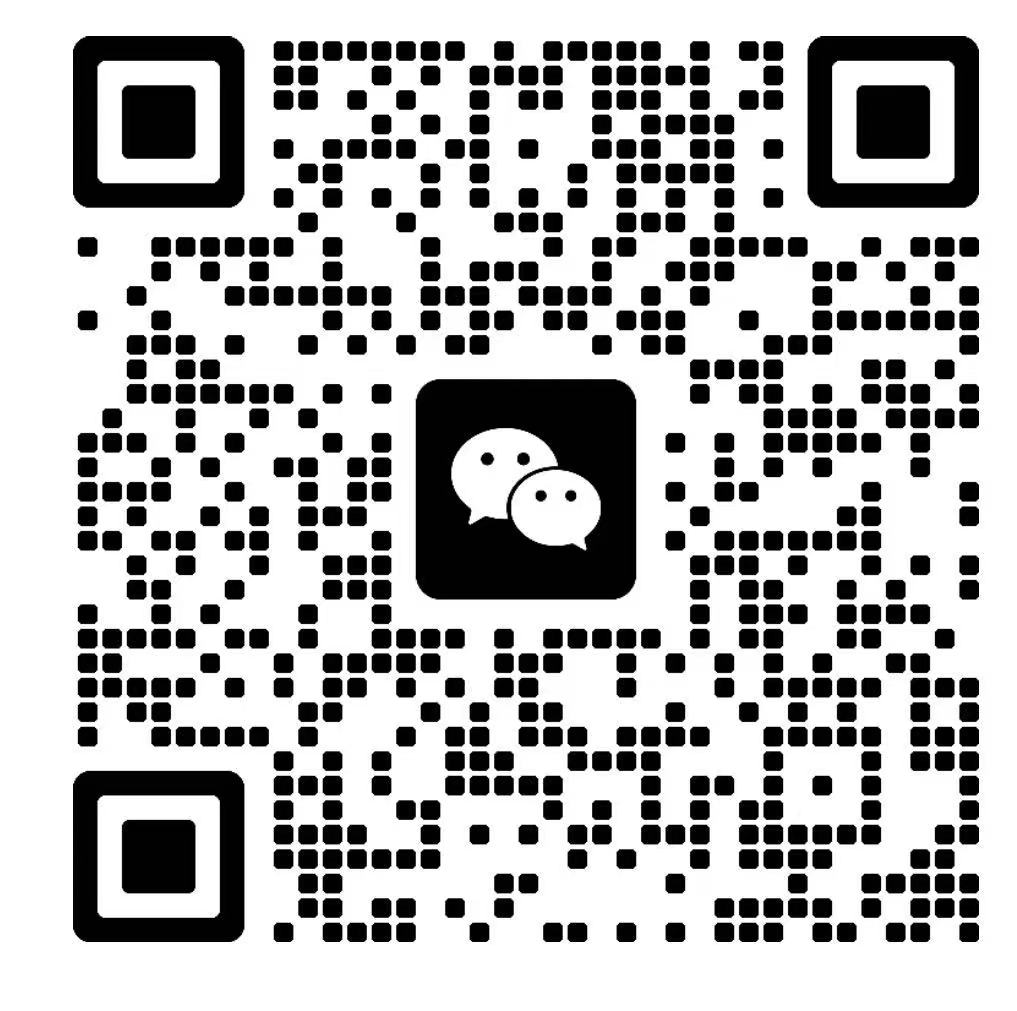
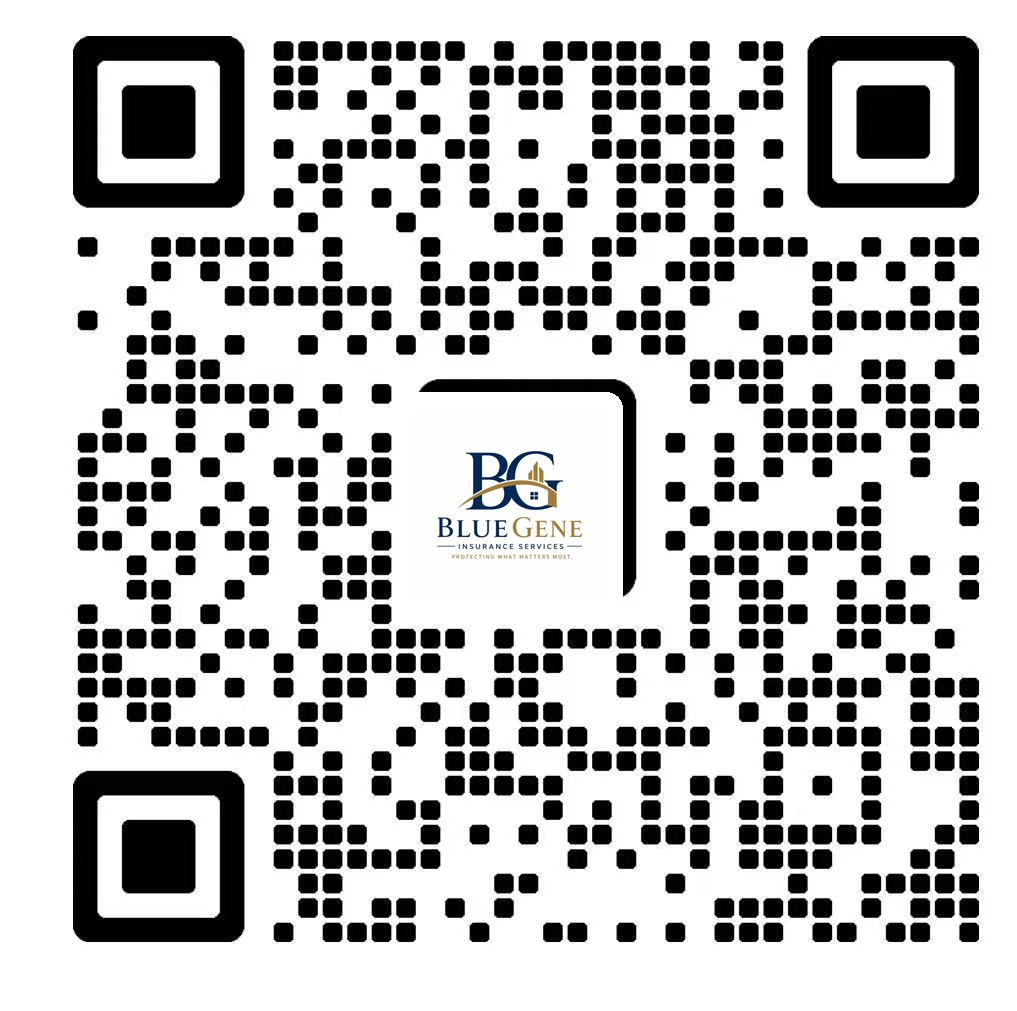
Add files via upload

Changed region(s): [[0.3963, 0.368, 0.6096, 0.6133]]

diff --git a/index.html b/index.html
@@ -12,13 +12,13 @@
   <div class="shell nav">
     <a class="logo" href="#home"><img src="assets/bluegene-logo.png" alt="BlueGene Insurance Services"></a>
     <nav class="menu">
-      <a class="active" href="#home" data-en="Home" data-zh="首页">Home</a>
-      <a href="#about" data-en="About Us" data-zh="关于我们">About Us</a>
-      <a href="#services" data-en="Insurance Solutions" data-zh="保险方案">Insurance Solutions</a>
-      <a href="#resources" data-en="Resources" data-zh="资料">Resources</a>
-      <a href="#contact" data-en="Contact Us" data-zh="联系我们">Contact Us</a>
-      <button class="language" id="lang">中文</button>
-      <a class="quote-top" href="mailto:agent@bluegeneins.com?subject=Quote Request" data-en="Get a Quote" data-zh="获取报价">Get a Quote</a>
+      <a class="active" href="#home" data-en="Home" data-es="Inicio" data-zh="首页">Home</a>
+      <a href="#about" data-en="About Us" data-es="Sobre Nosotros" data-zh="关于我们">About Us</a>
+      <a href="#services" data-en="Insurance Solutions" data-es="Soluciones de Seguros" data-zh="保险方案">Insurance Solutions</a>
+      <a href="#resources" data-en="Resources" data-es="Recursos" data-zh="资料">Resources</a>
+      <a href="#contact" data-en="Contact Us" data-es="Contáctenos" data-zh="联系我们">Contact Us</a>
+      <div class="language-switch" aria-label="Language"><button type="button" data-lang="en" class="lang-choice active">EN</button><button type="button" data-lang="zh">中文</button><button type="button" data-lang="es">ES</button></div>
+      <a class="quote-top" href="mailto:agent@bluegeneins.com?subject=Quote Request" data-en="Get a Quote" data-es="Obtenga una Cotización" data-zh="获取报价">Get a Quote</a>
     </nav>
   </div>
 </header>
@@ -27,15 +27,15 @@
 <section class="hero" id="home">
   <div class="shell hero-inner">
     <div class="hero-copy">
-      <div class="kicker" data-en="PROTECT WHAT MATTERS MOST" data-zh="守护您最重要的一切">PROTECT WHAT MATTERS MOST</div>
-      <h1 data-en="Insurance Solutions You Can Trust" data-zh="值得信赖的保险方案">Insurance Solutions You Can Trust</h1>
-      <p data-en="At BlueGene Insurance Services, we provide personalized insurance solutions to protect your family, your assets, and your future."
+      <div class="kicker" data-en="PROTECT WHAT MATTERS MOST" data-es="PROTEJA LO QUE MÁS IMPORTA" data-zh="守护您最重要的一切">PROTECT WHAT MATTERS MOST</div>
+      <h1 data-en="Insurance Solutions You Can Trust" data-es="Soluciones de Seguros en las que Puede Confiar" data-zh="值得信赖的保险方案">Insurance Solutions You Can Trust</h1>
+      <p data-en="At BlueGene Insurance Services, we provide personalized insurance solutions to protect your family, your assets, and your future." data-es="En BlueGene Insurance Services, ofrecemos soluciones de seguro personalizadas para proteger a su familia, sus bienes y su futuro."
          data-zh="BlueGene Insurance Services 为您提供个性化保险方案，守护您的家庭、资产与未来。">
         At BlueGene Insurance Services, we provide personalized insurance solutions to protect your family, your assets, and your future.
       </p>
       <div class="hero-buttons">
-        <a class="primary" href="mailto:agent@bluegeneins.com?subject=Quote Request" data-en="Get a Free Quote" data-zh="免费获取报价">Get a Free Quote</a>
-        <a class="secondary" href="#services" data-en="Learn More" data-zh="了解更多">Learn More</a>
+        <a class="primary" href="mailto:agent@bluegeneins.com?subject=Quote Request" data-en="Get a Free Quote" data-es="Obtenga una Cotización Gratuita" data-zh="免费获取报价">Get a Free Quote</a>
+        <a class="secondary" href="#services" data-en="Learn More" data-es="Más Información" data-zh="了解更多">Learn More</a>
       </div>
     </div>
     <div class="hero-photo" aria-label="Family"></div>
@@ -45,70 +45,70 @@
 <section class="services" id="services">
   <div class="shell services-grid">
     <div class="service-main">
-      <div class="section-kicker" data-en="OUR SERVICES" data-zh="我们的服务">OUR SERVICES</div>
-      <h2 data-en="Coverage for Life and Business" data-zh="生活与家庭的全面保障">Coverage for Life and Business</h2>
+      <div class="section-kicker" data-en="OUR SERVICES" data-es="NUESTROS SERVICIOS" data-zh="我们的服务">OUR SERVICES</div>
+      <h2 data-en="Coverage for Life and Business" data-es="Cobertura para Cada Etapa de la Vida" data-zh="生活与家庭的全面保障">Coverage for Life and Business</h2>
       <div class="gold-line"></div>
 
       <div class="cards">
         <article class="card">
           <div class="round-icon">🚗</div>
-          <h3 data-en="Auto Insurance" data-zh="汽车保险">Auto Insurance</h3>
-          <p data-en="Coverage options designed to help protect your vehicles and drivers." data-zh="为您的车辆和驾驶人提供合适的保险保障。">Coverage options designed to help protect your vehicles and drivers.</p>
+          <h3 data-en="Auto Insurance" data-es="Seguro de Auto" data-zh="汽车保险">Auto Insurance</h3>
+          <p data-en="Coverage options designed to help protect your vehicles and drivers." data-es="Opciones de cobertura diseñadas para ayudar a proteger sus vehículos y conductores." data-zh="为您的车辆和驾驶人提供合适的保险保障。">Coverage options designed to help protect your vehicles and drivers.</p>
         </article>
 
         <article class="card">
           <div class="round-icon home-icon">◆</div>
-          <h3 data-en="Home Insurance" data-zh="房屋保险">Home Insurance</h3>
-          <p data-en="Protection for your home, personal property, and everyday peace of mind." data-zh="为房屋、个人财产及日常生活提供安心保障。">Protection for your home, personal property, and everyday peace of mind.</p>
+          <h3 data-en="Home Insurance" data-es="Seguro de Hogar" data-zh="房屋保险">Home Insurance</h3>
+          <p data-en="Protection for your home, personal property, and everyday peace of mind." data-es="Protección para su hogar, sus bienes personales y su tranquilidad diaria." data-zh="为房屋、个人财产及日常生活提供安心保障。">Protection for your home, personal property, and everyday peace of mind.</p>
         </article>
 
         <article class="card">
           <div class="round-icon">♥</div>
-          <h3 data-en="Life Insurance" data-zh="人寿保险">Life Insurance</h3>
-          <p data-en="Options that can help support your family's long-term financial security." data-zh="帮助您为家庭建立长期的财务保障。">Options that can help support your family's long-term financial security.</p>
+          <h3 data-en="Life Insurance" data-es="Seguro de Vida" data-zh="人寿保险">Life Insurance</h3>
+          <p data-en="Options that can help support your family's long-term financial security." data-es="Opciones que pueden ayudar a proteger la seguridad financiera a largo plazo de su familia." data-zh="帮助您为家庭建立长期的财务保障。">Options that can help support your family's long-term financial security.</p>
         </article>
 
         <article class="card">
           <div class="round-icon">$</div>
-          <h3 data-en="Annuity" data-zh="年金保险">Annuity</h3>
-          <p data-en="Long-term income and retirement planning solutions for your future." data-zh="为退休生活及长期收入规划提供解决方案。">Long-term income and retirement planning solutions for your future.</p>
+          <h3 data-en="Annuity" data-es="Anualidades" data-zh="年金保险">Annuity</h3>
+          <p data-en="Long-term income and retirement planning solutions for your future." data-es="Soluciones de ingresos a largo plazo y planificación para la jubilación." data-zh="为退休生活及长期收入规划提供解决方案。">Long-term income and retirement planning solutions for your future.</p>
         </article>
 
         <a class="card-link" href="https://www.coveredca.com/" target="_blank" rel="noopener">
           <article class="card">
             <div class="round-icon">✚</div>
-            <h3 data-en="Health Insurance" data-zh="健康保险">Health Insurance</h3>
-            <p data-en="Plans to help cover medical expenses and support your well-being." data-zh="帮助承担医疗费用，为您和家人的健康提供保障。">Plans to help cover medical expenses and support your well-being.</p>
+            <h3 data-en="Health Insurance" data-es="Seguro de Salud" data-zh="健康保险">Health Insurance</h3>
+            <p data-en="Plans to help cover medical expenses and support your well-being." data-es="Planes para ayudar a cubrir gastos médicos y apoyar su bienestar." data-zh="帮助承担医疗费用，为您和家人的健康提供保障。">Plans to help cover medical expenses and support your well-being.</p>
           </article>
         </a>
 
         <a class="card-link" href="docs/Patriot-Exchange-Student-Chinese.pdf" target="_blank">
           <article class="card">
             <div class="round-icon">◎</div>
-            <h3 data-en="International Student Insurance" data-zh="国际留学生保险">International Student Insurance</h3>
-            <p data-en="Specialized medical coverage options for international students and exchange participants." data-zh="为国际学生及交流项目参与者提供专门的医疗保障选择。">Specialized medical coverage options for international students and exchange participants.</p>
+            <h3 data-en="International Student Insurance" data-es="Seguro para Estudiantes Internacionales" data-zh="国际留学生保险">International Student Insurance</h3>
+            <p data-en="Specialized medical coverage options for international students and exchange participants." data-es="Opciones de cobertura médica especializada para estudiantes internacionales y participantes de intercambio." data-zh="为国际学生及交流项目参与者提供专门的医疗保障选择。">Specialized medical coverage options for international students and exchange participants.</p>
           </article>
         </a>
 
         <a class="card-link" href="https://www.imglobal.com/img-producer-insurance-plans/patriot-america-plus?IMGAC=546873&svi=1" target="_blank" rel="noopener">
           <article class="card">
             <div class="round-icon">✈</div>
-            <h3 data-en="Travel Medical Insurance" data-zh="旅行医疗保险">Travel Medical Insurance</h3>
-            <p data-en="Temporary medical protection for individuals, families, and groups traveling outside their home country." data-zh="为个人、家庭及团体的国际旅行提供临时医疗保障选择。">Temporary medical protection for individuals, families, and groups traveling outside their home country.</p>
+            <h3 data-en="Travel Medical Insurance" data-es="Seguro Médico de Viaje" data-zh="旅行医疗保险">Travel Medical Insurance</h3>
+            <p data-en="Temporary medical protection for individuals, families, and groups traveling outside their home country." data-es="Protección médica temporal para personas, familias y grupos que viajan fuera de su país de residencia." data-zh="为个人、家庭及团体的国际旅行提供临时医疗保障选择。">Temporary medical protection for individuals, families, and groups traveling outside their home country.</p>
           </article>
         </a>
 
         <article class="card">
           <div class="round-icon">◇</div>
-          <h3 data-en="Medicare Insurance" data-zh="Medicare 医疗保险">Medicare Insurance</h3>
-          <p data-en="Guidance to help you understand Medicare coverage options." data-zh="帮助您了解并选择适合自己的 Medicare 保障方案。">Guidance to help you understand Medicare coverage options.</p>
+          <h3 data-en="Medicare Insurance" data-es="Seguro Medicare" data-zh="Medicare 医疗保险">Medicare Insurance</h3>
+          <p data-en="Guidance to help you understand Medicare coverage options." data-es="Orientación para ayudarle a comprender sus opciones de cobertura de Medicare." data-zh="帮助您了解并选择适合自己的 Medicare 保障方案。">Guidance to help you understand Medicare coverage options.</p>
         </article>
       </div>
     </div>
 
     <aside class="contact-card" id="contact">
-      <h2 data-en="Get in Touch" data-zh="联系我们">Get in Touch</h2>
-      <p class="intro" data-en="We're here to help you find the right coverage." data-zh="我们愿意帮助您找到合适的保险保障。">We're here to help you find the right coverage.</p>
+      <h2 data-en="Get in Touch" data-es="Contáctenos" data-zh="联系我们">Get in Touch</h2>
+      <p class="intro" data-en="We're here to help you find the right coverage." data-es="Estamos aquí para ayudarle a encontrar la cobertura adecuada." data-zh="我们愿意帮助您找到合适的保险保障。">We're here to help you find the right coverage.</p>
       <div class="contact-list">
         <a href="tel:+16264744541">☎ <span>+1 (626) 474-4541</span></a>
         <a href="mailto:agent@bluegeneins.com">✉ <span>agent@bluegeneins.com</span></a>
@@ -116,9 +116,9 @@
         <span>● <span>Serving California</span></span>
       </div>
       <div class="divider"></div>
-      <h3 data-en="Scan to Connect with Us" data-zh="扫码添加微信">Scan to Connect with Us</h3>
+      <h3 data-en="Scan to Connect with Us" data-es="Conéctese con Nosotros en WeChat" data-zh="扫码添加微信">Scan to Connect with Us</h3>
       <img class="qr" src="assets/wechat-qr.jpg" alt="WeChat QR code">
-      <p class="qr-text" data-en="Scan the QR code to add us on WeChat and get in touch instantly!" data-zh="扫描二维码添加微信，随时联系我们！">Scan the QR code to add us on WeChat and get in touch instantly!</p>
+      <p class="qr-text" data-en="Scan the QR code to add us on WeChat and get in touch instantly!" data-es="Escanee el código QR para agregarnos en WeChat y comunicarse al instante." data-zh="扫描二维码添加微信，随时联系我们！">Scan the QR code to add us on WeChat and get in touch instantly!</p>
     </aside>
   </div>
 </section>
@@ -126,21 +126,21 @@
 <section class="about" id="about">
   <div class="shell about-grid">
     <div>
-      <div class="section-kicker" data-en="ABOUT BLUEGENE" data-zh="关于 BLUEGENE">ABOUT BLUEGENE</div>
-      <h2 data-en="Insurance should feel understandable." data-zh="保险应该简单易懂。">Insurance should feel understandable.</h2>
+      <div class="section-kicker" data-en="ABOUT BLUEGENE" data-es="SOBRE BLUEGENE" data-zh="关于 BLUEGENE">ABOUT BLUEGENE</div>
+      <h2 data-en="Insurance should feel understandable." data-es="El seguro debe ser fácil de entender." data-zh="保险应该简单易懂。">Insurance should feel understandable.</h2>
     </div>
     <div>
-      <p data-en="BlueGene Insurance Services focuses on personal, transparent, and responsive service." data-zh="BlueGene Insurance Services 专注于个性化、透明且及时的保险服务。">BlueGene Insurance Services focuses on personal, transparent, and responsive service.</p>
-      <p data-en="We take time to understand your priorities and help you explore coverage options that fit your situation." data-zh="我们会认真了解您的需求，帮助您选择更适合自身情况的保险方案。">We take time to understand your priorities and help you explore coverage options that fit your situation.</p>
+      <p data-en="BlueGene Insurance Services focuses on personal, transparent, and responsive service." data-es="BlueGene Insurance Services se enfoca en un servicio personal, transparente y atento." data-zh="BlueGene Insurance Services 专注于个性化、透明且及时的保险服务。">BlueGene Insurance Services focuses on personal, transparent, and responsive service.</p>
+      <p data-en="We take time to understand your priorities and help you explore coverage options that fit your situation." data-es="Nos tomamos el tiempo para comprender sus prioridades y ayudarle a explorar opciones de cobertura que se adapten a su situación." data-zh="我们会认真了解您的需求，帮助您选择更适合自身情况的保险方案。">We take time to understand your priorities and help you explore coverage options that fit your situation.</p>
     </div>
   </div>
 </section>
 
 <section class="resources" id="resources">
   <div class="shell resource-box">
-    <h2 data-en="Resources" data-zh="保险资料">Resources</h2>
-    <a href="docs/Patriot-Travel-Medical-Chinese.pdf" target="_blank" data-en="Travel Medical Insurance — Chinese Brochure" data-zh="旅行医疗保险 — 中文资料">Travel Medical Insurance — Chinese Brochure</a>
-    <a href="docs/Patriot-Exchange-Student-Chinese.pdf" target="_blank" data-en="International Student Insurance — Chinese Brochure" data-zh="国际留学生保险 — 中文资料">International Student Insurance — Chinese Brochure</a>
+    <h2 data-en="Resources" data-es="Recursos" data-zh="保险资料">Resources</h2>
+    <a href="docs/Patriot-Travel-Medical-Chinese.pdf" target="_blank" data-en="Travel Medical Insurance — Chinese Brochure" data-es="Seguro Médico de Viaje — Folleto en Chino" data-zh="旅行医疗保险 — 中文资料">Travel Medical Insurance — Chinese Brochure</a>
+    <a href="docs/Patriot-Exchange-Student-Chinese.pdf" target="_blank" data-en="International Student Insurance — Chinese Brochure" data-es="Seguro para Estudiantes Internacionales — Folleto en Chino" data-zh="国际留学生保险 — 中文资料">International Student Insurance — Chinese Brochure</a>
   </div>
 </section>
 </main>
@@ -148,14 +148,18 @@
 <footer><div class="shell">© 2026 BlueGene Insurance Services</div></footer>
 
 <script>
-const langBtn=document.getElementById('lang');
-let isZh=false;
-langBtn.addEventListener('click',()=>{
-  isZh=!isZh;
-  document.documentElement.lang=isZh?'zh-CN':'en';
-  document.querySelectorAll('[data-en]').forEach(el=>{ el.textContent=isZh?el.dataset.zh:el.dataset.en; });
-  langBtn.textContent=isZh?'English':'中文';
-});
+const languageButtons = document.querySelectorAll('[data-lang]');
+function setLanguage(lang){
+  document.documentElement.lang = lang === 'zh' ? 'zh-CN' : (lang === 'es' ? 'es' : 'en');
+  document.querySelectorAll('[data-en]').forEach(el => {
+    const value = lang === 'zh' ? el.dataset.zh : (lang === 'es' ? el.dataset.es : el.dataset.en);
+    if (value) el.textContent = value;
+  });
+  languageButtons.forEach(btn => btn.classList.toggle('active', btn.dataset.lang === lang));
+  localStorage.setItem('bluegene-language', lang);
+}
+languageButtons.forEach(btn => btn.addEventListener('click', () => setLanguage(btn.dataset.lang)));
+setLanguage(localStorage.getItem('bluegene-language') || 'en');
 </script>
 </body>
 </html>

diff --git a/styles.css b/styles.css
@@ -1,1 +1,1 @@
-*{box-sizing:border-box}html{scroll-behavior:smooth}body{margin:0;color:#14213a;background:#fff;font-family:Arial,"Helvetica Neue","Noto Sans SC",sans-serif}.shell{width:min(1380px,92%);margin:0 auto}.topbar{height:100px;background:#fff;border-bottom:1px solid #e6e9ef;position:sticky;top:0;z-index:20}.nav{height:100%;display:flex;align-items:center;justify-content:space-between}.logo img{display:block;width:108px;max-height:84px;object-fit:contain}.menu{display:flex;align-items:center;gap:36px}.menu>a:not(.quote-top){color:#0b1428;text-decoration:none;font-size:14px;font-weight:600;white-space:nowrap}.menu>a.active{color:#0a3a83;border-bottom:2px solid #0a3a83;padding-bottom:8px}.language{border:0;background:none;color:#0a3a83;font-size:14px;font-weight:700;cursor:pointer}.quote-top,.primary{color:#fff;text-decoration:none;background:linear-gradient(135deg,#0b3c8b,#061f59);font-weight:700;border-radius:7px}.quote-top{padding:14px 25px}.hero{background:linear-gradient(90deg,#fff 0%,#fffaf2 48%,#fff 100%)}.hero-inner{height:365px;display:grid;grid-template-columns:56% 44%}.hero-copy{padding:43px 0 30px}.kicker,.section-kicker{color:#b17716;font-size:14px;font-weight:800}.hero-copy h1{margin:10px 0 14px;color:#0b3577;font-size:59px;line-height:1.05;letter-spacing:-2px;max-width:660px}.hero-copy p{font-size:19px;line-height:1.5;color:#515d70;max-width:610px;margin:0 0 18px}.hero-buttons{display:flex;gap:20px}.primary,.secondary{display:inline-flex;align-items:center;justify-content:center;padding:14px 27px;min-width:170px}.secondary{border:1.5px solid #0a377e;color:#0a377e;background:#fff;text-decoration:none;border-radius:7px;font-weight:700}.hero-photo{background-image:linear-gradient(90deg,#fffaf2 0%,rgba(255,250,242,.35) 10%,rgba(255,255,255,0) 25%),url("assets/hero-family.jpg");background-size:cover;background-position:center}.services{padding:8px 0 42px}.services-grid{display:grid;grid-template-columns:minmax(0,1fr) 315px;gap:58px;align-items:start}.service-main{padding-top:26px}.service-main>.section-kicker{text-align:center}.service-main>h2{margin:9px 0 0;text-align:center;color:#0a3476;font-size:29px}.gold-line{width:44px;height:2px;background:#b17716;margin:16px auto 14px}.cards{display:grid;grid-template-columns:repeat(4,minmax(0,1fr));gap:14px}.card-link{text-decoration:none;color:inherit}.card{height:195px;padding:17px 16px;border:1px solid #e3e7ee;border-radius:12px;text-align:center;background:#fff;box-shadow:0 7px 22px rgba(11,35,72,.04);transition:transform .15s,box-shadow .15s}.card:hover{transform:translateY(-2px);box-shadow:0 10px 26px rgba(11,35,72,.08)}.round-icon{width:55px;height:55px;border:1.5px solid #cad6e7;border-radius:50%;display:grid;place-items:center;margin:0 auto 12px;color:#0b3b82;font-size:25px;font-weight:700}.home-icon{font-size:18px}.card h3{margin:0 0 11px;color:#073579;font-size:15px}.card p{margin:0;color:#596276;font-size:13.5px;line-height:1.52}.contact-card{background:linear-gradient(145deg,#f7f9fd,#eef3fb);border-radius:13px;padding:22px 28px 20px;text-align:center;min-height:517px}.contact-card h2{margin:0 0 8px;color:#0a3476;font-size:23px}.contact-card .intro{font-size:14px;line-height:1.5;margin:0 auto 17px;max-width:220px}.contact-list{display:flex;flex-direction:column;gap:10px;text-align:left;margin:0 4px}.contact-list>a,.contact-list>span{display:flex;gap:10px;color:#101a2d;text-decoration:none;font-size:14px}.divider{height:1px;background:#c8d1dd;margin:18px 0}.contact-card h3{color:#0a3476;font-size:16px;margin:0 0 12px}.qr{display:block;width:190px;max-width:100%;margin:0 auto;border-radius:8px;background:#fff;padding:4px}.qr-text{font-size:12.5px;line-height:1.45;margin:10px auto 0;max-width:230px}.about{background:#f5f7fb;padding:60px 0}.about-grid{display:grid;grid-template-columns:1fr 1fr;gap:90px;align-items:start}.about h2{color:#0a3476;font-size:38px;line-height:1.05;margin:10px 0}.about p{color:#596276;line-height:1.7;margin:0 0 16px;font-size:16px}.resources{padding:48px 0}.resource-box h2{color:#0a3476}.resource-box a{display:inline-block;margin:0 15px 10px 0;padding:13px 17px;border:1px solid #e2e6ed;border-radius:8px;color:#0a3476;text-decoration:none;font-weight:700}footer{background:#072d64;color:#fff;padding:26px 0;font-size:14px}@media(max-width:1080px){.menu{gap:15px}.services-grid{grid-template-columns:1fr}.contact-card{max-width:450px;margin:0 auto;min-height:0}.cards{grid-template-columns:repeat(2,1fr)}.hero-copy h1{font-size:48px}}@media(max-width:760px){.topbar{height:auto}.nav{padding:10px 0}.logo img{width:85px}.menu>a:not(.quote-top){display:none}.hero-inner{height:auto;grid-template-columns:1fr}.hero-copy{padding:35px 0}.hero-copy h1{font-size:42px}.hero-photo{height:260px}.cards{grid-template-columns:1fr 1fr}.about-grid{grid-template-columns:1fr;gap:20px}}@media(max-width:480px){.cards{grid-template-columns:1fr}.hero-buttons{flex-direction:column}.primary,.secondary{width:100%}}
+*{box-sizing:border-box}html{scroll-behavior:smooth}body{margin:0;color:#14213a;background:#fff;font-family:Arial,"Helvetica Neue","Noto Sans SC",sans-serif}.shell{width:min(1380px,92%);margin:0 auto}.topbar{height:100px;background:#fff;border-bottom:1px solid #e6e9ef;position:sticky;top:0;z-index:20}.nav{height:100%;display:flex;align-items:center;justify-content:space-between}.logo img{display:block;width:108px;max-height:84px;object-fit:contain}.menu{display:flex;align-items:center;gap:36px}.menu>a:not(.quote-top){color:#0b1428;text-decoration:none;font-size:14px;font-weight:600;white-space:nowrap}.menu>a.active{color:#0a3a83;border-bottom:2px solid #0a3a83;padding-bottom:8px}.language-switch{display:flex;align-items:center;gap:7px;padding-left:4px}.language-switch button{border:0;background:transparent;color:#5b6474;font-size:13px;font-weight:700;cursor:pointer;padding:5px 4px}.language-switch button.active{color:#0a3a83;border-bottom:2px solid #0a3a83}.quote-top,.primary{color:#fff;text-decoration:none;background:linear-gradient(135deg,#0b3c8b,#061f59);font-weight:700;border-radius:7px}.quote-top{padding:14px 25px}.hero{background:linear-gradient(90deg,#fff 0%,#fffaf2 48%,#fff 100%)}.hero-inner{height:365px;display:grid;grid-template-columns:56% 44%}.hero-copy{padding:43px 0 30px}.kicker,.section-kicker{color:#b17716;font-size:14px;font-weight:800}.hero-copy h1{margin:10px 0 14px;color:#0b3577;font-size:59px;line-height:1.05;letter-spacing:-2px;max-width:660px}.hero-copy p{font-size:19px;line-height:1.5;color:#515d70;max-width:610px;margin:0 0 18px}.hero-buttons{display:flex;gap:20px}.primary,.secondary{display:inline-flex;align-items:center;justify-content:center;padding:14px 27px;min-width:170px}.secondary{border:1.5px solid #0a377e;color:#0a377e;background:#fff;text-decoration:none;border-radius:7px;font-weight:700}.hero-photo{background-image:linear-gradient(90deg,#fffaf2 0%,rgba(255,250,242,.35) 10%,rgba(255,255,255,0) 25%),url("assets/hero-family.jpg");background-size:cover;background-position:center}.services{padding:8px 0 42px}.services-grid{display:grid;grid-template-columns:minmax(0,1fr) 315px;gap:58px;align-items:start}.service-main{padding-top:26px}.service-main>.section-kicker{text-align:center}.service-main>h2{margin:9px 0 0;text-align:center;color:#0a3476;font-size:29px}.gold-line{width:44px;height:2px;background:#b17716;margin:16px auto 14px}.cards{display:grid;grid-template-columns:repeat(4,minmax(0,1fr));gap:14px}.card-link{text-decoration:none;color:inherit}.card{height:195px;padding:17px 16px;border:1px solid #e3e7ee;border-radius:12px;text-align:center;background:#fff;box-shadow:0 7px 22px rgba(11,35,72,.04);transition:transform .15s,box-shadow .15s}.card:hover{transform:translateY(-2px);box-shadow:0 10px 26px rgba(11,35,72,.08)}.round-icon{width:55px;height:55px;border:1.5px solid #cad6e7;border-radius:50%;display:grid;place-items:center;margin:0 auto 12px;color:#0b3b82;font-size:25px;font-weight:700}.home-icon{font-size:18px}.card h3{margin:0 0 11px;color:#073579;font-size:15px}.card p{margin:0;color:#596276;font-size:13.5px;line-height:1.52}.contact-card{background:linear-gradient(145deg,#f7f9fd,#eef3fb);border-radius:13px;padding:22px 28px 20px;text-align:center;min-height:517px}.contact-card h2{margin:0 0 8px;color:#0a3476;font-size:23px}.contact-card .intro{font-size:14px;line-height:1.5;margin:0 auto 17px;max-width:220px}.contact-list{display:flex;flex-direction:column;gap:10px;text-align:left;margin:0 4px}.contact-list>a,.contact-list>span{display:flex;gap:10px;color:#101a2d;text-decoration:none;font-size:14px}.divider{height:1px;background:#c8d1dd;margin:18px 0}.contact-card h3{color:#0a3476;font-size:16px;margin:0 0 12px}.qr{display:block;width:190px;max-width:100%;margin:0 auto;border-radius:8px;background:#fff;padding:4px}.qr-text{font-size:12.5px;line-height:1.45;margin:10px auto 0;max-width:230px}.about{background:#f5f7fb;padding:60px 0}.about-grid{display:grid;grid-template-columns:1fr 1fr;gap:90px;align-items:start}.about h2{color:#0a3476;font-size:38px;line-height:1.05;margin:10px 0}.about p{color:#596276;line-height:1.7;margin:0 0 16px;font-size:16px}.resources{padding:48px 0}.resource-box h2{color:#0a3476}.resource-box a{display:inline-block;margin:0 15px 10px 0;padding:13px 17px;border:1px solid #e2e6ed;border-radius:8px;color:#0a3476;text-decoration:none;font-weight:700}footer{background:#072d64;color:#fff;padding:26px 0;font-size:14px}@media(max-width:1080px){.menu{gap:15px}.services-grid{grid-template-columns:1fr}.contact-card{max-width:450px;margin:0 auto;min-height:0}.cards{grid-template-columns:repeat(2,1fr)}.hero-copy h1{font-size:48px}}@media(max-width:760px){.topbar{height:auto}.nav{padding:10px 0}.logo img{width:85px}.menu>a:not(.quote-top){display:none}.hero-inner{height:auto;grid-template-columns:1fr}.hero-copy{padding:35px 0}.hero-copy h1{font-size:42px}.hero-photo{height:260px}.cards{grid-template-columns:1fr 1fr}.about-grid{grid-template-columns:1fr;gap:20px}}@media(max-width:480px){.cards{grid-template-columns:1fr}.hero-buttons{flex-direction:column}.primary,.secondary{width:100%}}
